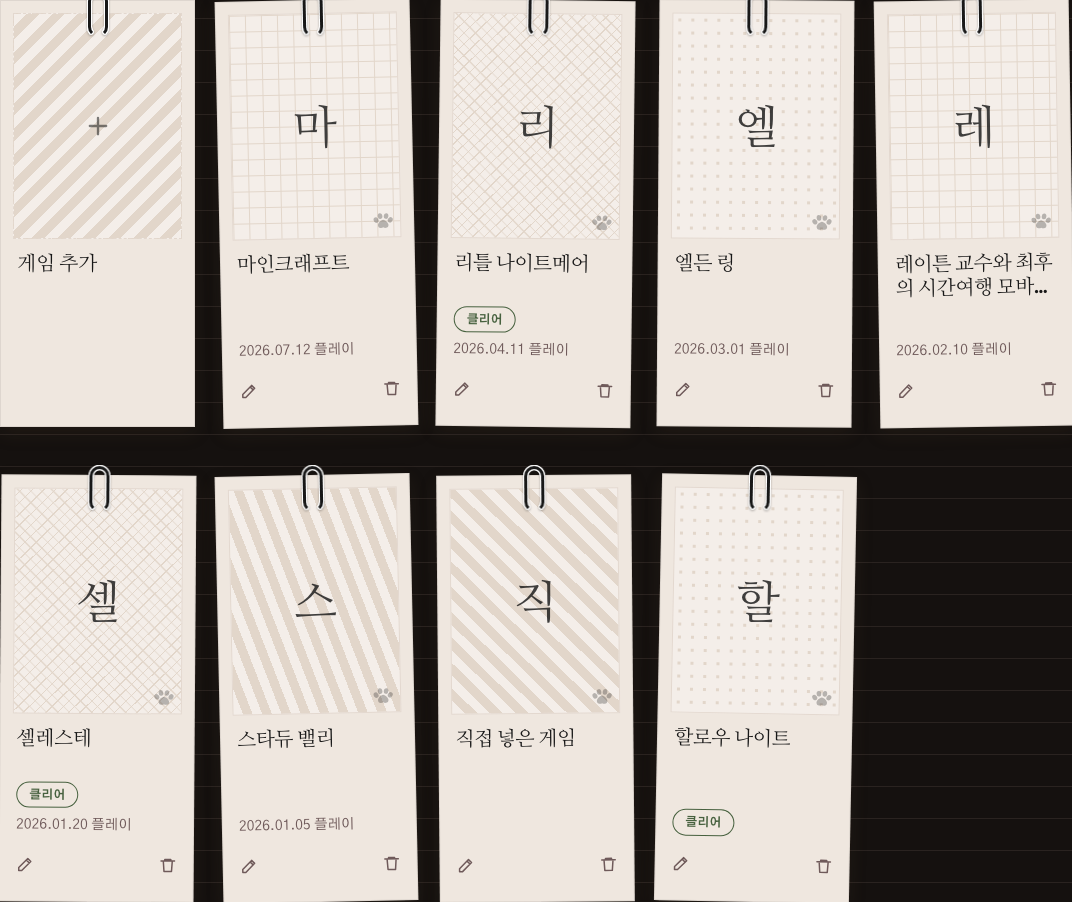
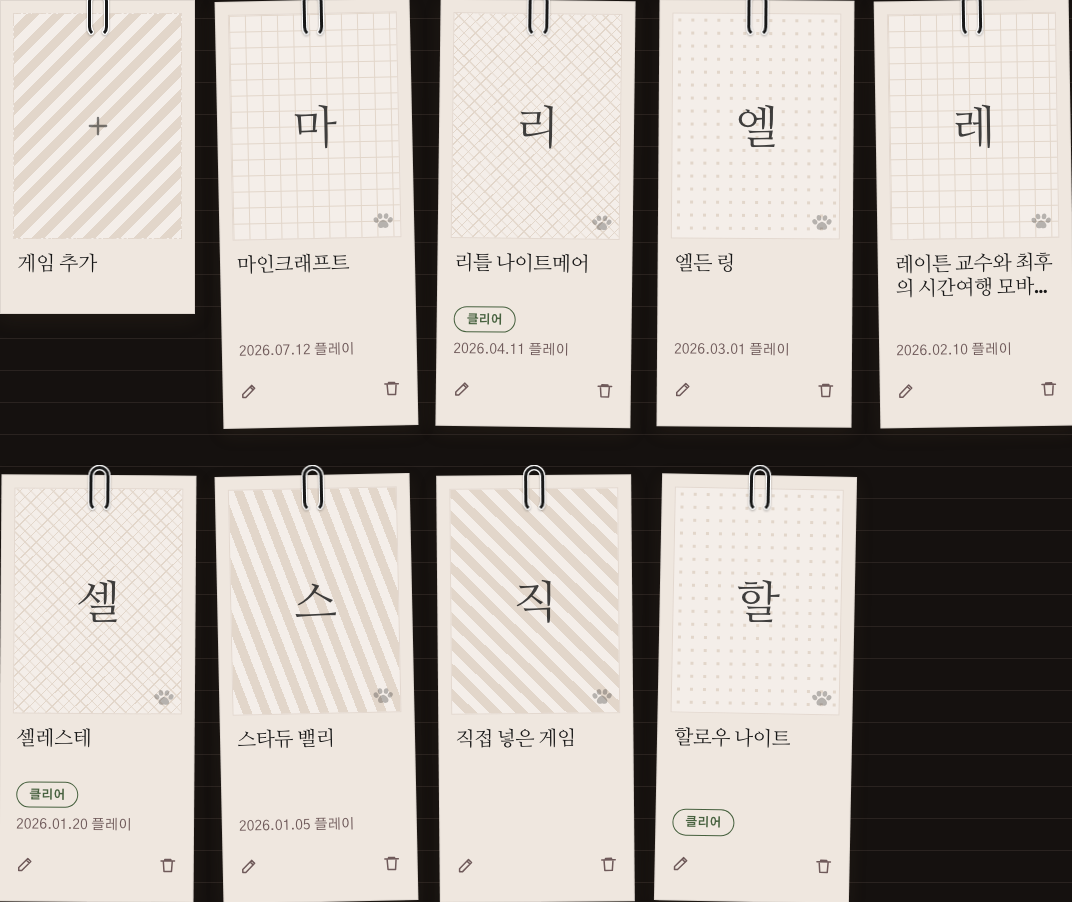
빈 종이가 게임 카드 키를 따라 늘어나지 않게 한다
보드 첫 칸의 .addslot(「게임 추가」)이 grid-auto-rows:1fr 에 끌려 가장 높은 게임 카드
높이까지 늘어났다. 이 카드는 게임 카드보다 부품이 둘 적어서(날짜 줄·액션 줄) 늘어난
만큼이 전부 라벨 밑 빈 종이로 남는다. align-self:start 로 자기 콘텐츠만큼만 서게 한다.

**50px 은 어림이 아니라 상수다.** #51 이 액션 줄을 오버레이(position:absolute — 흐름 밖
0px)에서 사진 밑 흐름 안으로 내리면서 자기 높이 44 + 위 마진 6 을 카드 키에 그대로 얹었다.
액션 줄 전후를 실측하면 빈 자리가

  vw1280  67.21 → 117.20
  vw560   68.20 → 118.19
  vw390   66.45 → 116.43
  vw320   88.11 → 138.10

으로 네 폭 모두 차이가 49.99 다. 주석의 50 을 이 수치로 뒷받침해 두었다.

기각한 대안 둘:

- **슬롯이 남는 높이를 먹는 안.** 라벨이 아래로 밀려 .game__name 과의 기준선 대응이
  깨진다 — 이 파일이 슬롯 3/4 · 라벨 2줄 상자로 애써 세워 둔 부품 대응이 그거다.
- **라벨을 슬롯 안으로 넣는 안.** 빗금 위라 읽기가 나쁘다.

채택안은 대응을 지키면서 뒤에 남던 빈 자리만 없앤다 — 라벨과 제목의 기준선 어긋남은
네 폭 모두 0.32px 로 유지된다(실측). 카드 키가 서로 달라지는 건 대가가 아니다: 이 보드는
집게로 집어 둔 종이들이고 빈 종이 한 장이 더 작은 건 은유에 맞는다.

시각 베이스라인 갱신 중 **맹점 하나를 발견해 같이 못박았다.** .addslot 이 줄면서 드러나는
자리가 라이트에선 흰 종이 → 거의 흰 노트 배경이라 픽셀 차가 Playwright 기본 threshold
0.2(YIQ) 아래로 떨어져 **낡은 라이트 베이스라인이 초록으로 통과했다**(다크는 크림 섬 →
검정이라 21254px 로 즉시 빨개졌다). 라이트 파일을 지우고 다시 구웠고, "카드 기하를 바꿨는데
다크만 빨개지면 라이트는 무사한 게 아니라 못 본 것"이라고 visual.spec.ts 에 적었다.

게이트: typecheck · lint · format:check · build 초록, e2e 48/48, e2e:visual 9/9.

Changed region(s): [[0.0, 0.3415, 0.1847, 0.4967]]

diff --git a/e2e/visual.spec.ts b/e2e/visual.spec.ts
@@ -82,10 +82,18 @@ test("시각: nav 로그인 상태 · light", async ({ page, baseURL }) => {
    그걸 못 본다. 대비 계산이 잡는 축이지만 계산은 사람이 안 돌리면 안 돌아간다.
 
    범위는 카드 하나가 아니라 **.games 격자 전체**다. 액션 줄이 카드를 50px 높이는데,
-   액션 줄이 없는 .addslot(게임 추가)과 기준선이 어긋나는지는 격자를 봐야 드러난다
-   (grid-auto-rows:1fr 이 맞춰 주는 걸 이번에 실측으로 확인했지만, 그건 지금 참인 것이지
-   계약이 아니다). 픽스처가 결정적이라(e2e/fixtures/games.sql, poster null) 격자를 넓게
-   잡아도 흔들리지 않는다. */
+   액션 줄이 없는 .addslot(게임 추가)과 기준선이 어긋나는지는 격자를 봐야 드러난다.
+   .addslot 은 이제 align-self:start 로 늘어나기를 거부하므로(games.css) 카드 키가 서로
+   다른 게 정상이다 — 라벨과 .game__name 의 기준선 대응은 그래도 유지된다(실측 어긋남
+   0.32px). 픽스처가 결정적이라(e2e/fixtures/games.sql, poster null) 격자를 넓게 잡아도
+   흔들리지 않는다.
+
+   **라이트 한 장은 카드 키 변화를 못 잡는다 — 이 베이스라인의 알려진 맹점이다.** .addslot 이
+   줄면서 드러나는 자리가 라이트에선 흰 종이(#fff) → 거의 흰 노트 배경이라 픽셀 차가
+   Playwright 기본 threshold 0.2(YIQ) 아래로 떨어져 **낡은 베이스라인이 초록으로 통과했다**
+   (다크는 크림 섬 → 검정이라 21254px 로 즉시 빨개졌다). 실제로 이번에 라이트 파일을 지우고
+   다시 구워야 했다. 카드 기하를 바꿨는데 다크만 빨개지면 라이트가 무사한 게 아니라 못 본
+   것이다 — 두 장 다 지우고 재생성해라. */
 for (const theme of ["light", "dark"] as const) {
   test(`시각: games 쓰기 권한 · ${theme}`, async ({ page, baseURL }) => {
     await page.addInitScript((t) => {

diff --git a/src/app/games/games.css b/src/app/games/games.css
@@ -152,7 +152,23 @@
    은유대로 .polaroid 를 입는다(마크업이 클래스를 준다) — 사진지 면·다크 토큰 섬·집게 halo 를
    게임 카드와 똑같이 받아야 "같은 종이 한 장"으로 읽힌다. 패딩·본문 오프셋도 .game 과 같은
    값이어야 첫 칸만 기준선이 어긋나지 않는다. */
+/* **늘어나지 않는다.** 그리드가 행 높이를 가장 높은 카드에 맞추는데(grid-auto-rows:1fr)
+   이 카드는 게임 카드보다 부품이 둘 적다 — 날짜 줄과 액션 줄이 없다. 늘어나면 그만큼이
+   라벨 밑 빈 종이로 남고, 액션 줄이 사진 밑으로 내려오면서 그 빈 자리가 50px 더 벌어졌다.
+   그 50 은 어림이 아니라 상수다 — 액션 줄이 오버레이(position:absolute, 흐름 밖 0px)에서
+   흐름 안으로 들어오며 자기 높이 44 + 위 마진 6 을 카드 키에 그대로 얹었다. 액션 줄 전후로
+   재면 빈 자리가 vw1280 67.21→117.20 · vw560 68.20→118.19 · vw390 66.45→116.43 ·
+   vw320 88.11→138.10 으로, 네 폭 모두 차이가 49.99 다(320 만 시작값이 20 큰 건 이 안과
+   무관한 별개 사유다 — 액션 줄 전후로 똑같이 크므로 여기서 따지지 않는다).
+   셀 위쪽에 붙여 자기 콘텐츠만큼만 서게 한다 — 라벨과 .game__name 의 기준선 어긋남은
+   네 폭 모두 0.32px 로 유지된다(실측).
+
+   **카드 키가 달라지는 건 대가가 아니다** — 이 보드는 집게로 집어 둔 종이들이고 빈 종이
+   한 장이 더 작은 건 자연스럽다. 늘리는 쪽(슬롯이 남는 높이를 먹는 안)은 라벨을 아래로
+   밀어 .game__name 기준선과의 대응을 깬다 — 이 파일이 슬롯 3/4·라벨 2줄 상자로 애써
+   세워 둔 부품 대응이 그거다. 빈 자리만 없애고 대응은 지킨다. */
 .addslot {
+  align-self: start;
   display: flex;
   flex-direction: column;
   width: 100%;